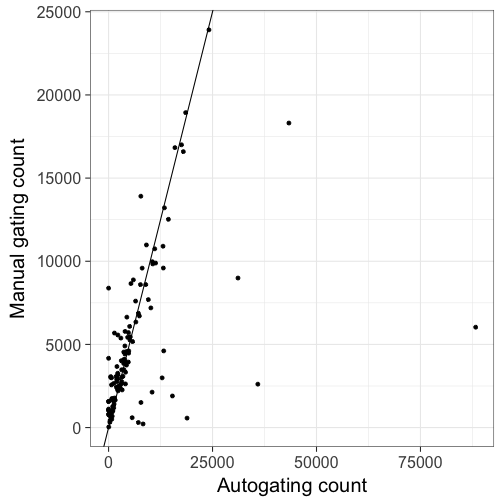
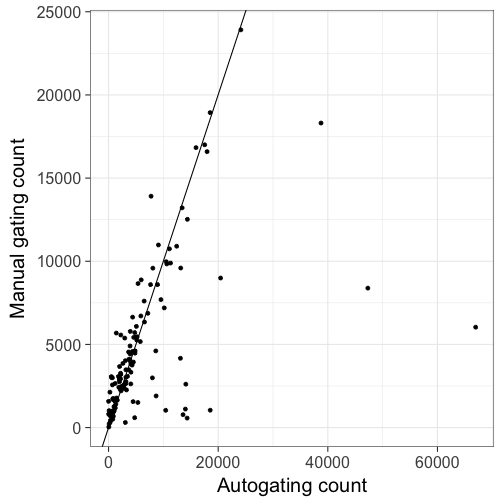
up to min of rho=.39 for cytotoxic tcells

diff --git a/report/report1/rep1.md b/report/report1/rep1.md
@@ -93,16 +93,16 @@ class: esmall-table
 ![plot of chunk unnamed-chunk-1](rep1-figure/unnamed-chunk-1-1.png)
 
 
-| N_SAMPS| N_DATA|    RHO|  BETA| BETA_SE|     R2|  ICC_1|
-|-------:|------:|------:|-----:|-------:|------:|------:|
-|     127|   2413| 0.9545| 0.991|  0.0034| 0.9726| 0.9862|
+| N_SAMPS| N_DATA|    RHO|   BETA| BETA_SE|     R2|  ICC_1|
+|-------:|------:|------:|------:|-------:|------:|------:|
+|     127|   2413| 0.9687| 0.9919|  0.0033| 0.9735| 0.9866|
 ***
 ![plot of chunk unnamed-chunk-3](rep1-figure/unnamed-chunk-3-1.png)
 
 
 | N_SAMPS| N_DATA|    RHO|   BETA| BETA_SE|     R2|  ICC_1|
 |-------:|------:|------:|------:|-------:|------:|------:|
-|     127|   2413| 0.9294| 0.9401|  0.0063| 0.9023| 0.9498|
+|     127|   2413| 0.9507| 0.9679|  0.0055| 0.9267| 0.9626|
 
 Example OpenCyto gates
 ========================================================
@@ -202,7 +202,7 @@ class: esmall-table
 
 | N_SAMPS| N_DATA|    RHO|   BETA| BETA_SE|     R2|   ICC_1|
 |-------:|------:|------:|------:|-------:|------:|-------:|
-|     127|    127| 0.1358| 0.1071|  0.0608| 0.0242| -0.1658|
+|     127|    127| 0.1358| 0.1072|  0.0608| 0.0243| -0.1657|
 
 
 Live cells (PE-)
@@ -544,16 +544,16 @@ class: esmall-table
 ![plot of chunk unnamed-chunk-65](rep1-figure/unnamed-chunk-65-1.png)
 
 
-| N_SAMPS| N_DATA| RHO|  BETA| BETA_SE| R2|   ICC_1|
-|-------:|------:|---:|-----:|-------:|--:|-------:|
-|     127|    127|  NA| 151.7|       0|  0| -0.1754|
+| N_SAMPS| N_DATA|    RHO|   BETA| BETA_SE|     R2|  ICC_1|
+|-------:|------:|------:|------:|-------:|------:|------:|
+|     127|    127| 0.3908| 0.5399|  0.0655| 0.3525| 0.5883|
 ***
 ![plot of chunk unnamed-chunk-67](rep1-figure/unnamed-chunk-67-1.png)
 
 
-| N_SAMPS| N_DATA| RHO|   BETA| BETA_SE| R2|   ICC_1|
-|-------:|------:|---:|------:|-------:|--:|-------:|
-|     127|    127|  NA| 0.0053|       0|  0| -0.2394|
+| N_SAMPS| N_DATA|    RHO|   BETA| BETA_SE|     R2|  ICC_1|
+|-------:|------:|------:|------:|-------:|------:|------:|
+|     127|    127| 0.4827| 0.3845|  0.0596| 0.2497| 0.4688|
 
 
 effector cytotoxic Tcells  (CCR7-  CD45RA+)
@@ -563,16 +563,16 @@ class: esmall-table
 ![plot of chunk unnamed-chunk-69](rep1-figure/unnamed-chunk-69-1.png)
 
 
-| N_SAMPS| N_DATA|   RHO|   BETA| BETA_SE|     R2|  ICC_1|
-|-------:|------:|-----:|------:|-------:|------:|------:|
-|     127|    127| 0.716| 0.8167|  0.0742| 0.4924| 0.6728|
+| N_SAMPS| N_DATA|    RHO|   BETA| BETA_SE|     R2| ICC_1|
+|-------:|------:|------:|------:|-------:|------:|-----:|
+|     127|    127| 0.8426| 0.9377|  0.0731| 0.5685| 0.712|
 ***
 ![plot of chunk unnamed-chunk-71](rep1-figure/unnamed-chunk-71-1.png)
 
 
 | N_SAMPS| N_DATA|    RHO|   BETA| BETA_SE|     R2|  ICC_1|
 |-------:|------:|------:|------:|-------:|------:|------:|
-|     127|    127| 0.5943| 0.4147|  0.0508| 0.3473| 0.4667|
+|     127|    127| 0.6353| 0.5174|  0.0536| 0.4268| 0.5305|
 
 effector memory cytotoxic Tcells (CCR7- , CD45RA-)
 ========================================================
@@ -581,16 +581,16 @@ class: esmall-table
 ![plot of chunk unnamed-chunk-73](rep1-figure/unnamed-chunk-73-1.png)
 
 
-| N_SAMPS| N_DATA|    RHO|   BETA| BETA_SE|     R2|  ICC_1|
-|-------:|------:|------:|------:|-------:|------:|------:|
-|     127|    127| 0.8459| 0.1896|  0.0285| 0.2612| 0.2389|
+| N_SAMPS| N_DATA|    RHO|   BETA| BETA_SE|    R2|  ICC_1|
+|-------:|------:|------:|------:|-------:|-----:|------:|
+|     127|    127| 0.8469| 0.1947|  0.0295| 0.258| 0.2916|
 ***
 ![plot of chunk unnamed-chunk-75](rep1-figure/unnamed-chunk-75-1.png)
 
 
-| N_SAMPS| N_DATA|    RHO|   BETA| BETA_SE|     R2|  ICC_1|
-|-------:|------:|------:|------:|-------:|------:|------:|
-|     127|    127| 0.7051| 0.2654|  0.0347| 0.3183| 0.2346|
+| N_SAMPS| N_DATA|    RHO|   BETA| BETA_SE|    R2|  ICC_1|
+|-------:|------:|------:|------:|-------:|-----:|------:|
+|     127|    127| 0.6971| 0.3061|  0.0395| 0.324| 0.3865|
 
 
 naive cytotoxic Tcells (CCR7+ , CD45RA+)
@@ -602,14 +602,14 @@ class: esmall-table
 
 | N_SAMPS| N_DATA|    RHO|   BETA| BETA_SE|     R2|  ICC_1|
 |-------:|------:|------:|------:|-------:|------:|------:|
-|     127|    127| 0.6886| 0.2066|  0.0343| 0.2253| 0.3387|
+|     127|    127| 0.6942| 0.2695|  0.0375| 0.2922| 0.4165|
 ***
 ![plot of chunk unnamed-chunk-79](rep1-figure/unnamed-chunk-79-1.png)
 
 
-| N_SAMPS| N_DATA|    RHO|   BETA| BETA_SE|     R2| ICC_1|
-|-------:|------:|------:|------:|-------:|------:|-----:|
-|     127|    127| 0.6596| 0.3977|   0.055| 0.2951| 0.513|
+| N_SAMPS| N_DATA|    RHO|   BETA| BETA_SE|     R2|  ICC_1|
+|-------:|------:|------:|------:|-------:|------:|------:|
+|     127|    127| 0.6381| 0.5458|  0.0596| 0.4019| 0.6202|
 
 
 
